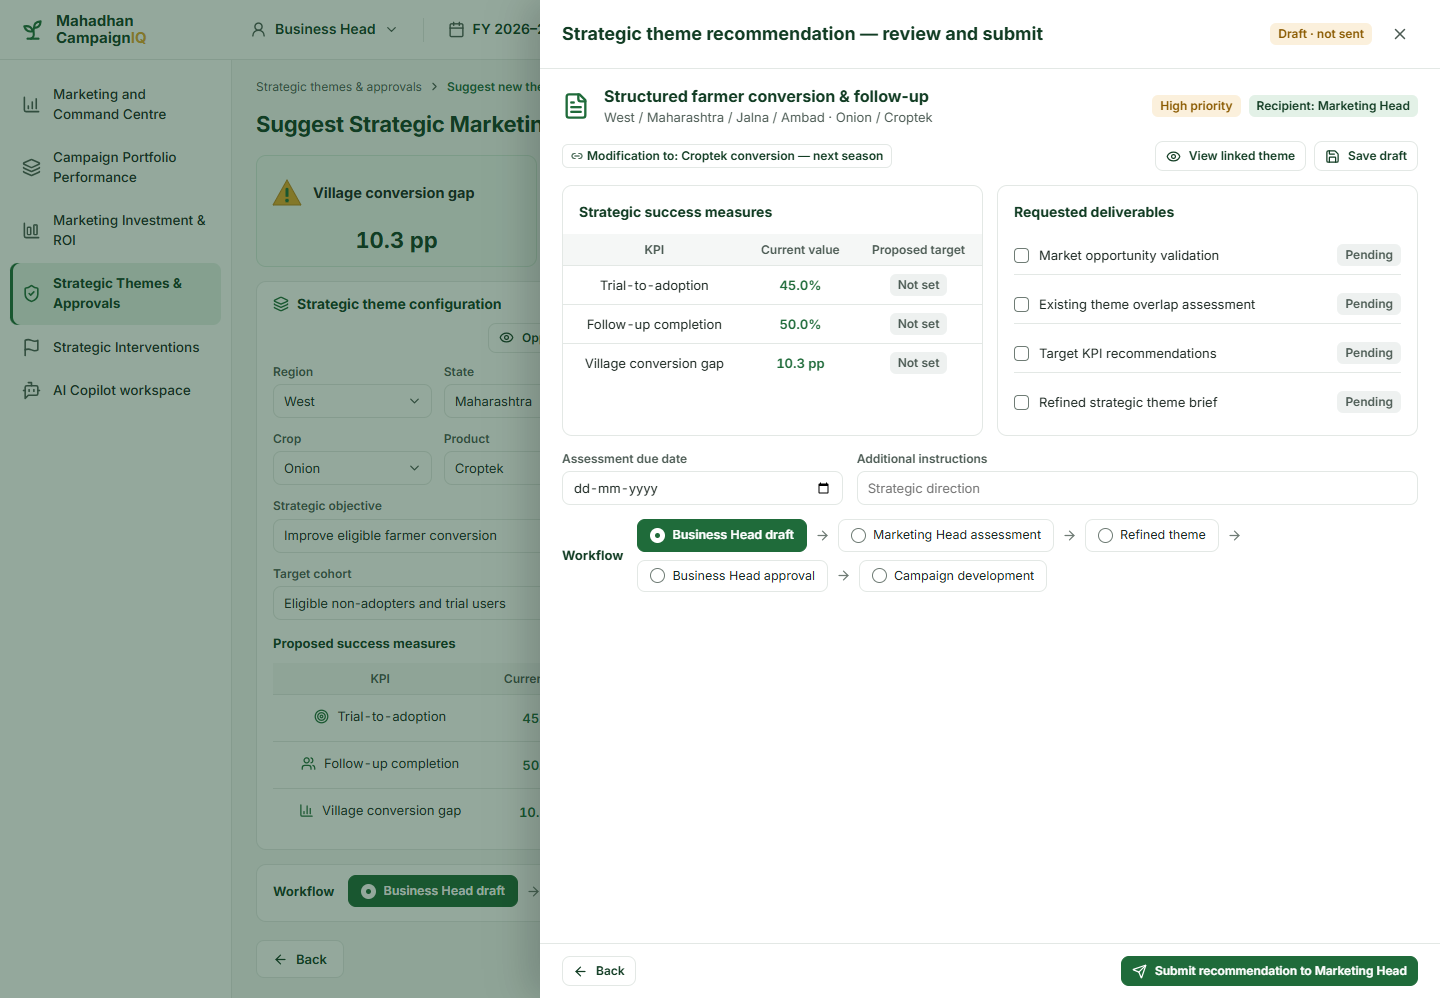
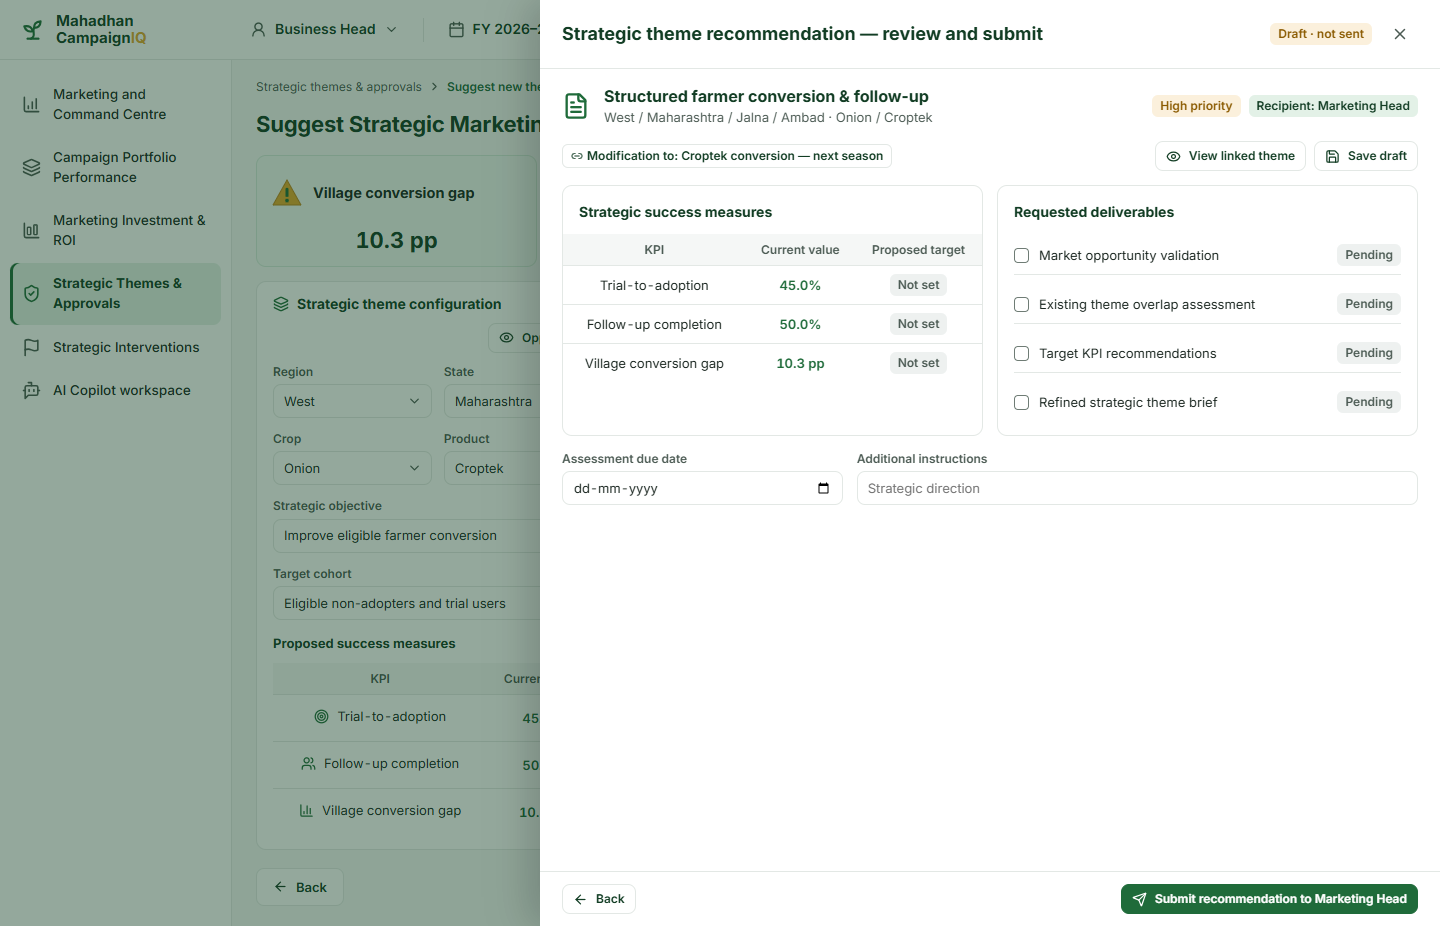
BH: theme evidence card per mockup, workflow removed

diff --git a/campaigniq-v3/src/screens/Themes.tsx b/campaigniq-v3/src/screens/Themes.tsx
@@ -16,7 +16,7 @@ import { useBhStore, type ThemeDecision } from '../store/bhStore';
 import { RegionBarsCard } from './RegionBars';
 import { SERIES } from '../theme';
 import { HBars, Legend } from '../ui/charts';
-import { Breadcrumb, Button, Card, FilterBar, FooterBar, KpiCard, PageHeader, PanelFooter, SegmentedControl, Select, StatusChip, STEPS, WorkflowStepper } from '../ui/core';
+import { Breadcrumb, Button, Card, FilterBar, FooterBar, KpiCard, PageHeader, PanelFooter, SegmentedControl, Select, StatusChip } from '../ui/core';
 import { DataTable } from '../ui/DataTable';
 import { Drawer, EvidenceDrawer, Modal, type Evidence } from '../ui/overlay';
 import { ALL, CROP_OPTIONS, opt, PRODUCT_OPTIONS, REGION_OPTIONS, useGo, useScopeFilter } from './common';
@@ -26,7 +26,6 @@ function ThemeTabs({ active }: { active: 'inbox' | 'opportunity' }) {
   return <SegmentedControl value={active} onChange={(v) => go(v === 'inbox' ? R.inbox : R.opportunity)} options={[{ value: 'inbox', label: 'Theme approval inbox' }, { value: 'opportunity', label: 'Market opportunity' }]} />;
 }
 
-const stepOf = (status: string) => (status === 'review_pending' || status === 'clarification_requested' ? 1 : 3);
 
 // ================================================================ 11 Market Opportunity
 export function MarketOpportunity() {
@@ -169,10 +168,10 @@ export function ThemeInbox() {
         ) : <div style={{ padding: '6px 16px 10px' }}><StatusChip tone="neutral">No themes match the filters</StatusChip></div>}
       </Card>
       {sel && (
-        <div className="grid g3">
-          <Card title="Selected theme opportunity evidence" icon={ChartColumn} right={<StatusChip tone="warn">{sel.id === 'croptek-next' ? 'Next season (revision)' : sel.priority}</StatusChip>}>
-            <div style={{ display: 'grid', gridTemplateColumns: 'repeat(3, minmax(0, 1fr))', gap: '14px 10px' }}>
-              {themeEvidence(sel.id).map((e) => <div key={e.label}><div className="strong" style={{ fontSize: 20, color: 'var(--brand)' }}>{e.value}</div><div className="muted" style={{ fontSize: 12 }}>{e.label}</div></div>)}
+        <div className="grid" style={{ gridTemplateColumns: 'minmax(0, 1.4fr) minmax(0, 1fr) minmax(0, 1fr)' }}>
+          <Card title={sel.name} icon={ChartColumn}>
+            <div className="ev-grid">
+              {themeEvidence(sel.id).map((e) => <div key={e.label} className="ev-cell"><b>{e.value}</b><span>{e.label.replace(/-/g, '‑')}</span></div>)}
             </div>
           </Card>
           <Card title="Strategic alignment and approval readiness" icon={CircleCheck}>
@@ -188,7 +187,6 @@ export function ThemeInbox() {
           </Card>
         </div>
       )}
-      {sel && <Card><WorkflowStepper steps={STEPS.themeReview} current={stepOf(store.themeStatus[sel.id])} /></Card>}
       <FooterBar onBack={() => go(R.opportunity)} onNext={sel ? () => go(R.review(sel.id)) : undefined} />
     </div>
   );
@@ -326,7 +324,6 @@ function DecisionModal({ t, onClose, onShowOriginal }: { t: ThemeProposal; onClo
         <div className="field"><span>Recipient</span><StatusChip tone="ok">Marketing Head</StatusChip></div>
         <div className="field"><span>Theme version</span><StatusChip tone="ok">{draft ? 'Saved draft' : 'Current draft'}</StatusChip></div>
       </div>
-      <WorkflowStepper steps={STEPS.themeReview} current={decided ? 3 : 1} />
     </Modal>
   );
 }
@@ -433,7 +430,6 @@ export function SuggestTheme() {
           </Card>
         </div>
       </div>
-      <Card><WorkflowStepper steps={STEPS.themeSuggestion} current={0} /></Card>
       <FooterBar onBack={() => go(R.opportunity)} onNext={() => go(R.tracker)} />
       {params.get('drawer') === 'submit' && (
         <Drawer title="Strategic theme recommendation — review and submit" status={<StatusChip tone="warn">Draft · not sent</StatusChip>}
@@ -461,7 +457,6 @@ export function SuggestTheme() {
             <label className="field"><span>Assessment due date</span><input type="date" className="input" value={f.due} onChange={(e) => set('due', e.target.value)} /></label>
             <label className="field"><span>Additional instructions</span><input className="input" value={f.notes} onChange={(e) => set('notes', e.target.value)} placeholder="Strategic direction" /></label>
           </div>
-          <WorkflowStepper steps={STEPS.themeSuggestion} current={0} />
         </Drawer>
       )}
       {evidence && <EvidenceDrawer evidence={evidence} onClose={() => setEvidence(null)} />}

diff --git a/campaigniq-v3/src/ui/core.tsx b/campaigniq-v3/src/ui/core.tsx
@@ -112,31 +112,6 @@ export function SegmentedControl<T extends string>({ label, value, options, onCh
   );
 }
 
-export function WorkflowStepper({ steps, current, label = 'Workflow' }: { steps: readonly string[]; current: number; label?: string }) {
-  return (
-    <div className="row" style={{ gap: 14 }}>
-      <b className="strong">{label}</b>
-      <div className="stepper">
-        {steps.map((s, i) => (
-          <Fragment key={s}>
-            {i > 0 && <ArrowRight size={15} className="step-arrow" />}
-            <span className={`step${i < current ? ' done' : i === current ? ' on' : ''}`}>
-              {i < current ? <Check size={14} /> : <span className={`radio${i === current ? ' on' : ''}`} style={i === current ? { borderColor: 'var(--card)' } : undefined} />}
-              {s}
-            </span>
-          </Fragment>
-        ))}
-      </div>
-    </div>
-  );
-}
-
-/** One stepper set, identical labels wherever it appears. */
-export const STEPS = {
-  themeReview: ['Proposal submitted', 'Business Head review', 'Decision', 'Marketing Head assignment', 'Campaign development'],
-  themeSuggestion: ['Business Head draft', 'Marketing Head assessment', 'Refined theme', 'Business Head approval', 'Campaign development'],
-  intervention: ['Intervention draft', 'Marketing Head assessment', 'Recovery plan', 'Business Head review', 'Action tracking'],
-} as const;
 
 // ---------------------------------------------------------------- buttons, footer
 export function Button({ children, onClick, primary, disabled, icon: Icon, small, title }: { children: ReactNode; onClick?: () => void; primary?: boolean; disabled?: boolean; icon?: LucideIcon; small?: boolean; title?: string }) {

diff --git a/campaigniq-v3/src/styles.css b/campaigniq-v3/src/styles.css
@@ -220,3 +220,9 @@ textarea.input { height: auto; min-height: 60px; padding: 8px 10px; resize: vert
 .opp-label { flex: 1; min-width: 0; font-size: 13px; color: var(--ink-soft); white-space: nowrap; overflow: hidden; text-overflow: ellipsis; }
 .opp-tag { flex: none; font-size: 12px; font-weight: 600; color: var(--amber-ink); background: var(--amber-soft); border-radius: 4px; padding: 1px 6px; }
 .opp-value { flex: none; font-size: 16px; font-weight: 700; color: var(--dark); white-space: nowrap; font-variant-numeric: tabular-nums; }
+/* ---------- theme evidence grid (3 x 2, divider lines) ---------- */
+.ev-grid { flex: 1; display: grid; grid-template-columns: repeat(3, minmax(0, 1fr)); grid-template-rows: 1fr 1fr; margin: 0 -16px -14px; }
+.ev-cell { padding: 10px 14px; display: flex; flex-direction: column; justify-content: center; gap: 4px; text-align: left; border-right: 1px solid var(--line); border-bottom: 1px solid var(--line); min-width: 0; }
+.ev-cell:nth-child(3n) { border-right: 0; } .ev-cell:nth-child(n+4) { border-bottom: 0; }
+.ev-cell b { font-size: 22px; font-weight: 700; color: var(--brand); white-space: nowrap; font-variant-numeric: tabular-nums; }
+.ev-cell span { font-size: 12.5px; color: var(--ink-soft); line-height: 1.3; display: -webkit-box; -webkit-line-clamp: 2; -webkit-box-orient: vertical; overflow: hidden; }

diff --git a/campaigniq-v3/src/screens/Interventions.tsx b/campaigniq-v3/src/screens/Interventions.tsx
@@ -14,7 +14,7 @@ import { R } from '../routes';
 import { useBhStore } from '../store/bhStore';
 import { C, SERIES } from '../theme';
 import { Donut, HBars, Legend } from '../ui/charts';
-import { Breadcrumb, Button, Card, FooterBar, KpiCard, PageHeader, PanelFooter, SegmentedControl, Select, StatusChip, STEPS, WorkflowStepper, type Tone } from '../ui/core';
+import { Breadcrumb, Button, Card, FooterBar, KpiCard, PageHeader, PanelFooter, SegmentedControl, Select, StatusChip, type Tone } from '../ui/core';
 import { DataTable } from '../ui/DataTable';
 import { Drawer, EvidenceDrawer, type Evidence } from '../ui/overlay';
 import { opt, useGo } from './common';
@@ -151,7 +151,6 @@ function InterventionDrawer({ item, onClose }: { item: Intervention; onClose: ()
       <Card title="Required deliverables">
         {INTERVENTION_DELIVERABLES.map((d) => <div key={d} className="list-row"><span className="check" />{d}<span className="right"><StatusChip tone="warn">{sent ? 'Awaiting submission' : 'Not submitted'}</StatusChip></span></div>)}
       </Card>
-      <WorkflowStepper steps={STEPS.intervention} current={sent ? 1 : 0} />
     </Drawer>
   );
 }
